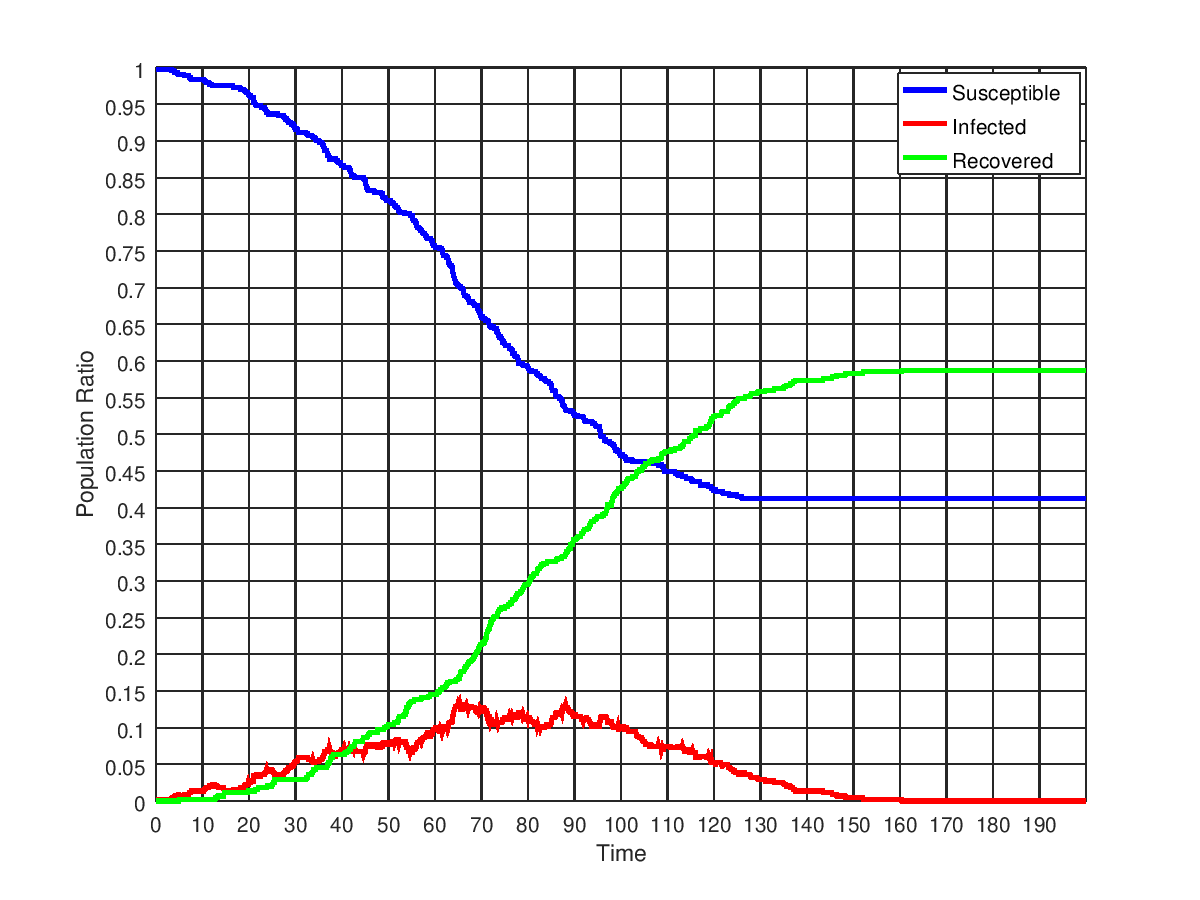
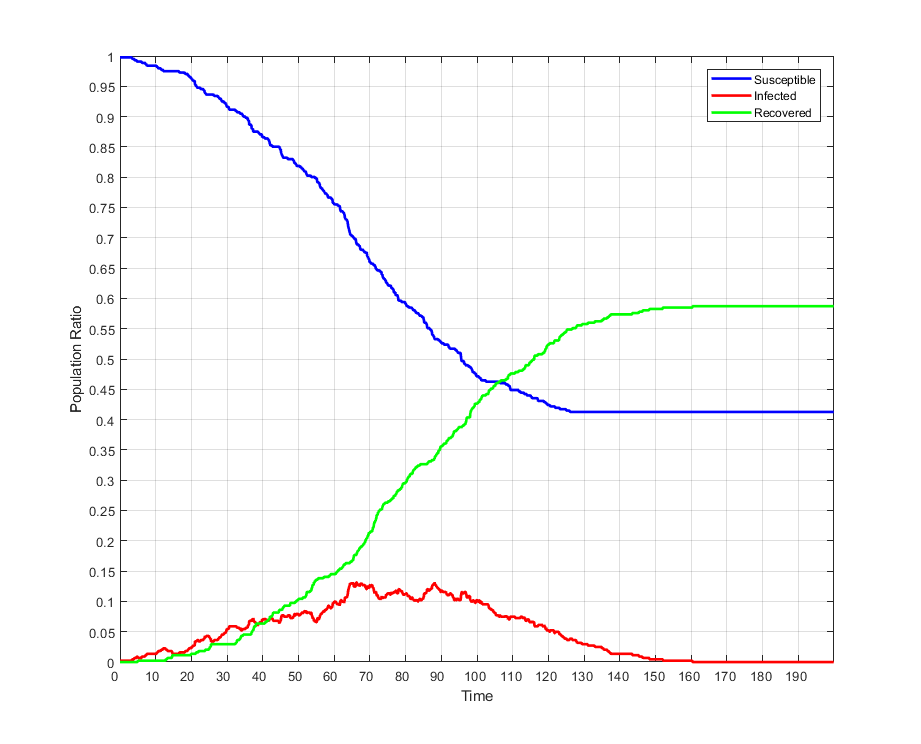
resolved todos in figures: exported diagrams using matlab

Changed region(s): [[0.0608, 0.0618, 0.9121, 0.9583]]

diff --git a/writing/papers/workingdrafts/purefunctionalepidemics/tex/sirModel.tex b/writing/papers/workingdrafts/purefunctionalepidemics/tex/sirModel.tex
@@ -43,7 +43,7 @@ Running the SD simulation over time results in the dynamics as shown in Figure \
 \begin{figure}
 	\centering
 	\includegraphics[width=.4\textwidth, angle=0]{./fig/step3_dataflow/SIR_SD_1000agents_150t_001dt.png}
-	\caption{TODO: generate PNG with MATLAB. Dynamics of the SIR compartment model using the System Dynamics approach. Population Size $N$ = 1,000, contact rate $\beta =  \frac{1}{5}$, infection probability $\gamma = 0.05$, illness duration $\delta = 15$ with initially 1 infected agent. Simulation run for 150 time-steps.}
+	\caption{Dynamics of the SIR compartment model using the System Dynamics approach. Population Size $N$ = 1,000, contact rate $\beta =  \frac{1}{5}$, infection probability $\gamma = 0.05$, illness duration $\delta = 15$ with initially 1 infected agent. Simulation run for 150 time-steps.}
 	\label{fig:sir_sd_dynamics}
 \end{figure}
 

diff --git a/writing/papers/workingdrafts/purefunctionalepidemics/tex/step2.tex b/writing/papers/workingdrafts/purefunctionalepidemics/tex/step2.tex
@@ -129,7 +129,7 @@ The function which drives the dynamics of our simulation now is occasionally, wh
 		\begin{subfigure}[b]{0.3\textwidth}
 			\centering
 			\includegraphics[width=1\textwidth, angle=0]{./fig/step2_yampa/SIR_1000agents_150t_01dt.png}
-			\caption{TODO: recreate png with MATLAB 1,000 Agents, $\Delta t = 0.1$}
+			\caption{1,000 Agents, $\Delta t = 0.1$}
 			\label{fig:sir_abs_approximating_01dt_1000agents}
 		\end{subfigure}
 		& 

diff --git a/writing/papers/workingdrafts/purefunctionalepidemics/tex/step5.tex b/writing/papers/workingdrafts/purefunctionalepidemics/tex/step5.tex
@@ -158,7 +158,7 @@ For this step we implemented functionality for rendering the environments using 
 		\begin{subfigure}[b]{0.3\textwidth}
 			\centering
 			\includegraphics[width=1\textwidth, angle=0]{./fig/step5_environment/SIR_dynamics_30x30agents_300t_01dt.png}
-			\caption{TODO: generate png with MATLAB Dynamics}
+			\caption{Dynamics}
 			\label{fig:sir_dynamics_30x30agents_300t_01dt}
 		\end{subfigure}
 	\end{tabular}
